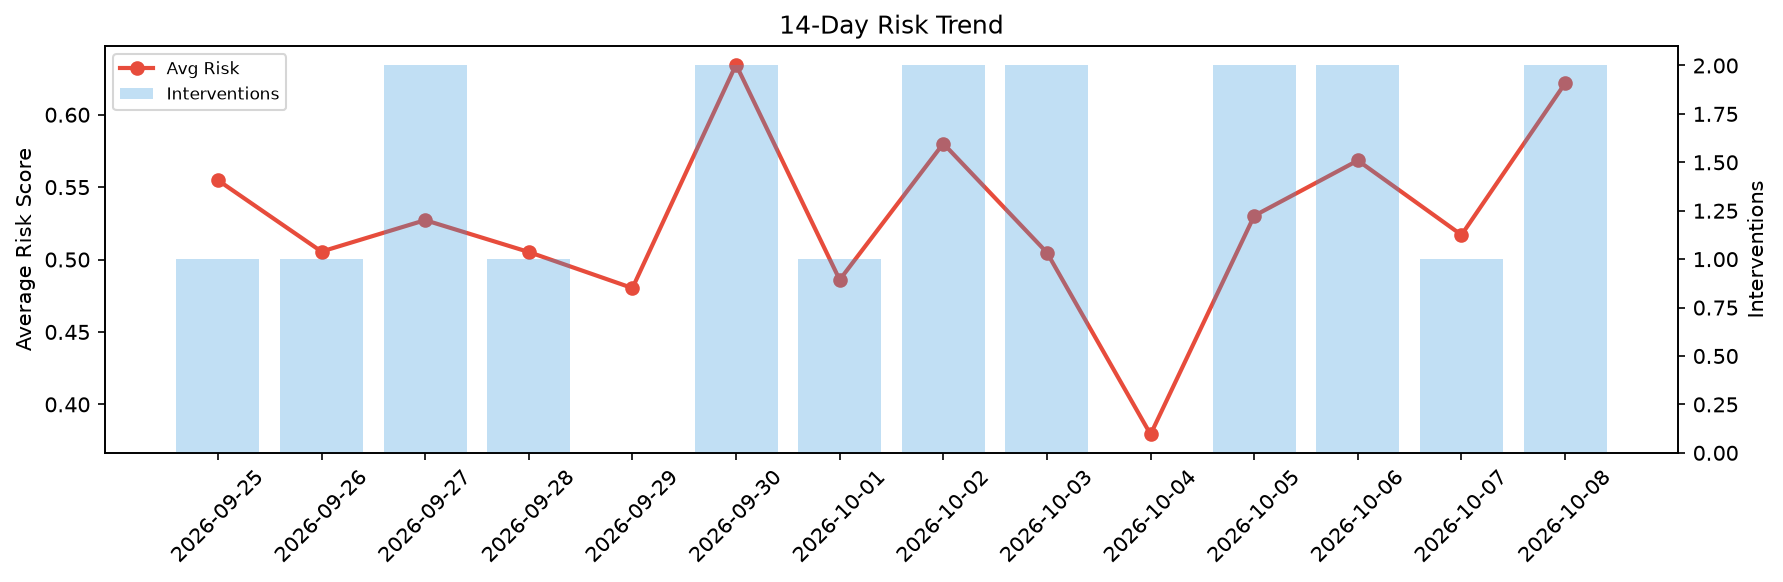
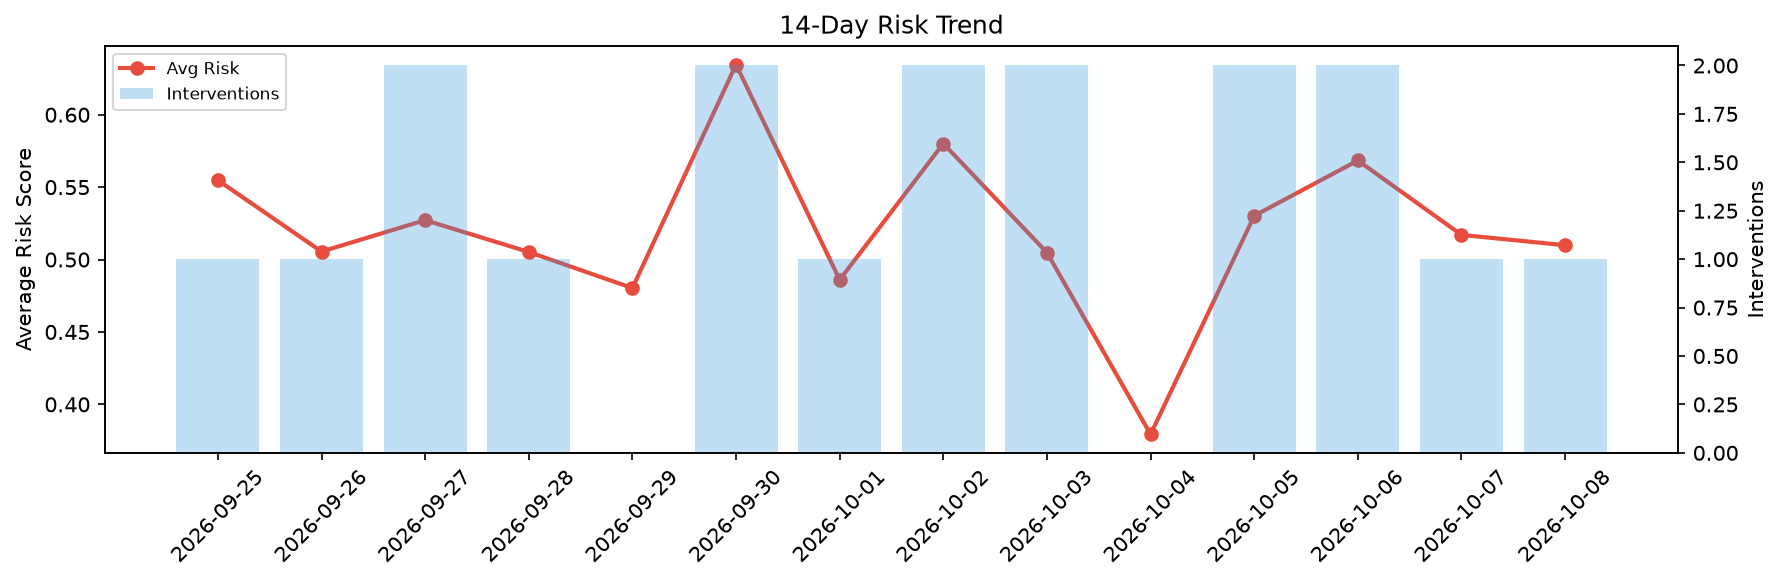
agent-improvement: daily cycle 2026-10-08T15:36

Changed region(s): [[0.8329, 0.0928, 0.9254, 0.4639]]

diff --git a/logs/2026-10-08.md b/logs/2026-10-08.md
@@ -1,6 +1,6 @@
 # Agent Improvement Report — 2026-10-08
 
-**Cycle ID:** `f5422acd` | **Avg Risk:** 0.6217 | **Interventions:** 2/4
+**Cycle ID:** `1007933c` | **Avg Risk:** 0.5099 | **Interventions:** 1/4
 
 ![Dashboard](2026-10-08_dashboard.png)
 
@@ -10,18 +10,18 @@
 
 | Domain | Risk Score | Decision | Alerts |
 |--------|-----------|----------|--------|
-| code_review | 0.3385 | monitor | none |
-| incident_response | 0.576 | monitor | mttr |
-| data_pipeline | 0.8368 | intervene | schema_drift, volume_anomaly |
-| deployment | 0.7355 | intervene | canary_error, latency_p99 |
+| code_review | 0.6449 | intervene | duplication |
+| incident_response | 0.5924 | monitor | none |
+| data_pipeline | 0.3721 | monitor | none |
+| deployment | 0.4303 | monitor | none |
 
 ## Delta vs Yesterday
 
 | Domain | Today | Yesterday | Change |
 |--------|-------|-----------|--------|
-| code_review | 0.3385 | 0.5978 | 📉 -43.4% |
-| incident_response | 0.576 | 0.4255 | 📈 35.4% |
-| data_pipeline | 0.8368 | 0.4416 | 📈 89.5% |
-| deployment | 0.7355 | 0.6032 | 📈 21.9% |
+| code_review | 0.6449 | 0.5978 | 📈 7.9% |
+| incident_response | 0.5924 | 0.4255 | 📈 39.2% |
+| data_pipeline | 0.3721 | 0.4416 | 📉 -15.7% |
+| deployment | 0.4303 | 0.6032 | 📉 -28.7% |
 
-**Refinement:** `{'adjustment': 'tighten_thresholds', 'trend': 'degrading', 'window': 4}`
+**Refinement:** `{'adjustment': 'maintain', 'trend': 'improving', 'window': 4}`
